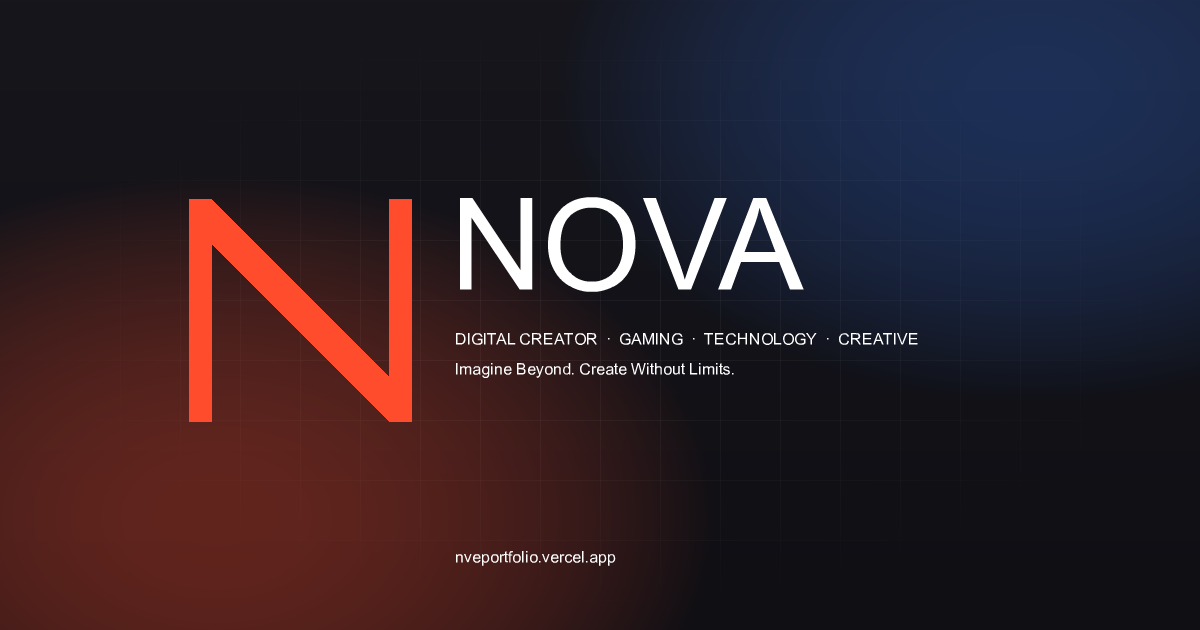
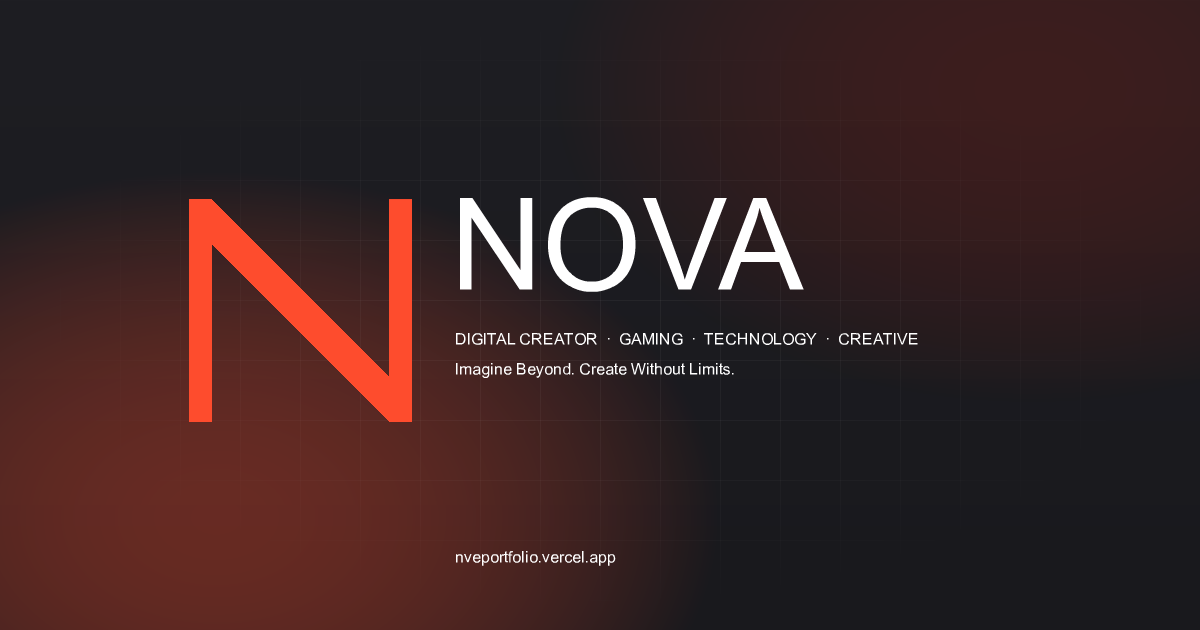
charcoal theme: lighten palette, drop hero vignette, regenerate OG cover

Changed region(s): [[0.555, 0.0, 1.0, 0.5127]]

diff --git a/assets/css/style.css b/assets/css/style.css
@@ -7,23 +7,23 @@
    1. TOKENS
 ----------------------------------------------------------------------------- */
 :root {
-  /* Color */
-  --bg:        #0A0A0B;
-  --bg-2:      #0E0E11;
-  --bg-3:      #060607;
+  /* Color — charcoal theme (lightened from near-black) */
+  --bg:        #141417;
+  --bg-2:      #1A1A1F;
+  --bg-3:      #101013;
   --fg:        #ECEAE6;   /* warm off-white */
-  --fg-dim:    #9A9AA0;
-  --fg-mute:   #5C5C63;
-  --line:      rgba(255, 255, 255, 0.09);
-  --line-2:    rgba(255, 255, 255, 0.16);
+  --fg-dim:    #A6A6AC;
+  --fg-mute:   #6E6E76;
+  --line:      rgba(255, 255, 255, 0.10);
+  --line-2:    rgba(255, 255, 255, 0.17);
   --accent:    #FF4D2E;   /* the single, sparingly used accent */
   --accent-2:  rgba(255, 77, 46, 0.14);
   --accent-blue: #367BFF; /* secondary highlight — AI / experimental surfaces only */
 
   /* Glass — dark translucent surfaces, thin white borders, edge highlights */
-  --glass-bg:      rgba(12, 12, 14, 0.58);
-  --glass-line:    rgba(255, 255, 255, 0.12);
-  --glass-hi:      rgba(255, 255, 255, 0.10); /* inner top reflection */
+  --glass-bg:      rgba(30, 30, 35, 0.55);
+  --glass-line:    rgba(255, 255, 255, 0.14);
+  --glass-hi:      rgba(255, 255, 255, 0.12); /* inner top reflection */
   --glass-blur:    blur(18px) saturate(1.2);
 
   /* Type */
@@ -455,12 +455,12 @@ section { scroll-margin-top: 90px; }
   -webkit-mask-image: radial-gradient(ellipse 70% 60% at 50% 42%, #000 20%, transparent 78%);
   animation: gridFloat 40s linear infinite;
 }
-/* cinematic vignette — pulls the eye to the wordmark */
+/* soft vignette — barely-there edge shaping, no crushing darkness */
 .hero__vignette {
   position: absolute; inset: 0; z-index: 2;
   background:
-    radial-gradient(ellipse 90% 80% at 50% 45%, transparent 42%, rgba(0,0,0,0.55) 100%),
-    linear-gradient(180deg, rgba(8,8,9,0.5) 0%, transparent 22%, transparent 72%, rgba(8,8,9,0.75) 100%);
+    radial-gradient(ellipse 100% 90% at 50% 45%, transparent 55%, rgba(0,0,0,0.16) 100%),
+    linear-gradient(180deg, rgba(20,20,23,0.28) 0%, transparent 20%, transparent 80%, rgba(20,20,23,0.34) 100%);
   pointer-events: none;
 }
 .hero__noise {
@@ -779,7 +779,7 @@ section { scroll-margin-top: 90px; }
   transition: border-color 0.45s var(--ease), box-shadow 0.45s var(--ease);
 }
 .gaming__pillar:hover {
-  background: #131315;
+  background: #1C1C21;
   box-shadow: inset 0 1px 0 var(--glass-hi), 0 0 34px rgba(255,77,46,0.08);
 }
 .gaming__pillar:hover::after {
@@ -815,7 +815,7 @@ section { scroll-margin-top: 90px; }
   position: relative; overflow: hidden;
   border: 1px solid var(--glass-line);
   border-radius: 14px;
-  background: rgba(16, 16, 18, 0.78);
+  background: rgba(34, 34, 40, 0.72);
   box-shadow: inset 0 1px 0 var(--glass-hi);
   min-height: 240px; display: flex; align-items: flex-end;
   transition: border-color 0.4s var(--ease), box-shadow 0.5s var(--ease), transform 0.5s var(--ease);
@@ -833,7 +833,7 @@ section { scroll-margin-top: 90px; }
 .cg.cg--photo { min-height: 0; }
 .cg--photo > img { position: absolute; inset: 0; width: 100%; height: 100%; object-fit: cover; transition: transform 0.9s var(--ease); }
 .cg--photo:hover > img { transform: scale(1.07); }
-.cg__body { position: relative; z-index: 2; padding: 1.2rem; width: 100%; background: linear-gradient(to top, rgba(6,6,7,0.85), transparent); }
+.cg__body { position: relative; z-index: 2; padding: 1.2rem; width: 100%; background: linear-gradient(to top, rgba(14,14,17,0.88), transparent); }
 .cg__cat { font-family: var(--f-mono); font-size: 0.66rem; letter-spacing: 0.14em; text-transform: uppercase; color: var(--accent); }
 .cg__title { font-family: var(--f-display); font-weight: 700; font-size: 1.25rem; margin-top: 0.3rem; }
 .cg__year { font-family: var(--f-mono); font-size: 0.7rem; color: var(--fg-dim); }
@@ -1014,7 +1014,7 @@ section { scroll-margin-top: 90px; }
   /* glass fallbacks — opaque surfaces, no nested backdrop-filters on touch */
   .contact__copy, .work-card__cat {
     backdrop-filter: none; -webkit-backdrop-filter: none;
-    background: rgba(14, 14, 16, 0.94);
+    background: rgba(26, 26, 31, 0.94);
     box-shadow: inset 0 1px 0 rgba(255,255,255,0.07);
   }
   .work-card__cat { padding: 0.35rem 0.7rem; }
@@ -1101,7 +1101,7 @@ section { scroll-margin-top: 90px; }
 ----------------------------------------------------------------------------- */
 .vs-top {
   position: sticky; top: 0; z-index: 100;
-  background: rgba(10, 10, 11, 0.82);
+  background: rgba(20, 20, 23, 0.85);
   backdrop-filter: blur(10px);
   border-bottom: 1px solid var(--line);
 }
@@ -1312,24 +1312,24 @@ section { scroll-margin-top: 90px; }
   pointer-events: none;
 }
 .menu {
-  background: rgba(10, 10, 14, 0.72);
+  background: rgba(24, 24, 29, 0.78);
   backdrop-filter: blur(22px) saturate(1.2);
   -webkit-backdrop-filter: blur(22px) saturate(1.2);
 }
 @media (max-width: 760px) {
   .nav[data-state="scrolled"] {
     margin: 0.5rem 0.5rem 0;
-    background: rgba(12, 12, 14, 0.9);
+    background: rgba(26, 26, 31, 0.92);
     backdrop-filter: none; -webkit-backdrop-filter: none;
   }
   .hero__status {
     backdrop-filter: none; -webkit-backdrop-filter: none;
-    background: rgba(12, 12, 14, 0.92);
+    background: rgba(26, 26, 31, 0.94);
     box-shadow: inset 0 1px 0 rgba(255,255,255,0.08);
   }
   .menu {
     backdrop-filter: none; -webkit-backdrop-filter: none;
-    background: rgba(10, 10, 11, 0.97);
+    background: rgba(20, 20, 23, 0.98);
   }
 }
 

diff --git a/scripts/make-og.js b/scripts/make-og.js
@@ -13,9 +13,9 @@ const FONT_DIR = path.join(
   __dirname, "..", "node_modules", "@jimp", "plugin-print", "fonts", "open-sans"
 );
 
-const BG = { r: 10, g: 10, b: 11 };        // #0A0A0B
+const BG = { r: 20, g: 20, b: 23 };        // #141417 — charcoal theme
 const ACCENT = { r: 255, g: 77, b: 46 };   // #FF4D2E
-const BLUE = { r: 54, g: 123, b: 255 };    // #367BFF
+const DEEPRED = { r: 150, g: 32, b: 18 };  // dark red ambient (matches hero)
 const WHITE = { r: 245, g: 247, b: 255 };  // #F5F7FF
 const DIM = { r: 150, g: 152, b: 160 };    // muted grey
 
@@ -39,16 +39,16 @@ function blend(img, x, y, color, alpha) {
   for (let y = 0; y < H; y++) {
     for (let x = 0; x < W; x++) {
       const idx = (W * y + x) << 2;
-      // base vertical gradient: slightly lighter at top
+      // base vertical gradient: charcoal, slightly lighter at top
       const g = 1 - y / H * 0.5;
-      d[idx] = 8 + 14 * g;
-      d[idx + 1] = 8 + 14 * g;
-      d[idx + 2] = 12 + 16 * g;
+      d[idx] = 20 + 10 * g;
+      d[idx + 1] = 20 + 10 * g;
+      d[idx + 2] = 23 + 12 * g;
       d[idx + 3] = 255;
     }
   }
 
-  // radial glows (accent left-bottom, blue right-top)
+  // radial glows (accent left-bottom, deep red right-top)
   for (let y = 0; y < H; y++) {
     for (let x = 0; x < W; x++) {
       const dx1 = (x - W * 0.18) / (W * 0.42), dy1 = (y - H * 0.82) / (H * 0.55);
@@ -56,7 +56,7 @@ function blend(img, x, y, color, alpha) {
       const dx2 = (x - W * 0.86) / (W * 0.40), dy2 = (y - H * 0.14) / (H * 0.50);
       const a2 = Math.max(0, 1 - (dx2 * dx2 + dy2 * dy2)) * 0.26;
       blend(img, x, y, ACCENT, a1);
-      blend(img, x, y, BLUE, a2);
+      blend(img, x, y, DEEPRED, a2);
     }
   }
 

diff --git a/index.html b/index.html
@@ -3,7 +3,7 @@
 <head>
   <meta charset="UTF-8" />
   <meta name="viewport" content="width=device-width, initial-scale=1.0, viewport-fit=cover" />
-  <meta name="theme-color" content="#0A0A0B" />
+  <meta name="theme-color" content="#141417" />
 
   <title>NOVA — Digital Creator & Creative Portfolio</title>
   <meta name="description" content="NOVA is a digital creator working at the intersection of gaming, technology and creative projects. Selected work, identity and experiments." />
@@ -100,7 +100,7 @@
   <footer class="footer" id="footer"></footer>
 
   <noscript>
-    <div style="padding:4rem 1.5rem;text-align:center;color:#fff;background:#0A0A0B;font-family:sans-serif">
+    <div style="padding:4rem 1.5rem;text-align:center;color:#fff;background:#141417;font-family:sans-serif">
       This portfolio is interactive and requires JavaScript to display its content.
     </div>
   </noscript>

diff --git a/visual-study.html b/visual-study.html
@@ -3,7 +3,7 @@
 <head>
   <meta charset="UTF-8" />
   <meta name="viewport" content="width=device-width, initial-scale=1.0, viewport-fit=cover" />
-  <meta name="theme-color" content="#0A0A0B" />
+  <meta name="theme-color" content="#141417" />
 
   <title>Visual Study &amp; Research — NOVA</title>
   <meta name="description" content="How the Nova Prime Universe visual identity is studied and built: colour, typography, composition, lighting, references, usability and the ethics of using images." />

diff --git a/ai-experiments.html b/ai-experiments.html
@@ -3,7 +3,7 @@
 <head>
   <meta charset="UTF-8" />
   <meta name="viewport" content="width=device-width, initial-scale=1.0, viewport-fit=cover" />
-  <meta name="theme-color" content="#0A0A0B" />
+  <meta name="theme-color" content="#141417" />
 
   <title>AI Experiments — NOVA</title>
   <meta name="description" content="NOVA's AI experiments: ELIMINATOR (functional, Gemini-powered), a local Creative Prompt Lab demonstration, honest concept statuses and research references." />

diff --git a/website-concept.html b/website-concept.html
@@ -3,7 +3,7 @@
 <head>
   <meta charset="UTF-8" />
   <meta name="viewport" content="width=device-width, initial-scale=1.0, viewport-fit=cover" />
-  <meta name="theme-color" content="#0A0A0B" />
+  <meta name="theme-color" content="#141417" />
 
   <title>Website Concept — NOVA</title>
   <meta name="description" content="The concept behind the NOVA portfolio: objectives, single-page structure, technical features, visual design, accessibility and performance choices." />

diff --git a/social-media.html b/social-media.html
@@ -3,7 +3,7 @@
 <head>
   <meta charset="UTF-8" />
   <meta name="viewport" content="width=device-width, initial-scale=1.0, viewport-fit=cover" />
-  <meta name="theme-color" content="#0A0A0B" />
+  <meta name="theme-color" content="#141417" />
 
   <title>Social Media — NOVA</title>
   <meta name="description" content="NOVA's social presence: Instagram, YouTube and Discord — purpose, proposed content directions, link verification status and privacy principles." />

diff --git a/brand.html b/brand.html
@@ -3,7 +3,7 @@
 <head>
   <meta charset="UTF-8" />
   <meta name="viewport" content="width=device-width, initial-scale=1.0, viewport-fit=cover" />
-  <meta name="theme-color" content="#0A0A0B" />
+  <meta name="theme-color" content="#141417" />
 
   <title>Brand Concept — NOVA</title>
   <meta name="description" content="NOVA — Creativity Meets Technology. The brand concept, vision, values and visual identity behind a personal creative technology portfolio." />

diff --git a/assets/js/app.js b/assets/js/app.js
@@ -23,7 +23,7 @@
       return s / 233280;
     };
     var W = 800, H = 600;
-    var bg = ["#0E0E11", "#0B0B0D", "#101013", "#0C0C0F"][Math.floor(rnd() * 4)];
+    var bg = ["#1A1A1F", "#17171C", "#1E1E24", "#18181D"][Math.floor(rnd() * 4)];
     var cx = (rnd() * W).toFixed(0);
     var cy = (rnd() * H).toFixed(0);
     var r = (rnd() * 240 + 120).toFixed(0);
